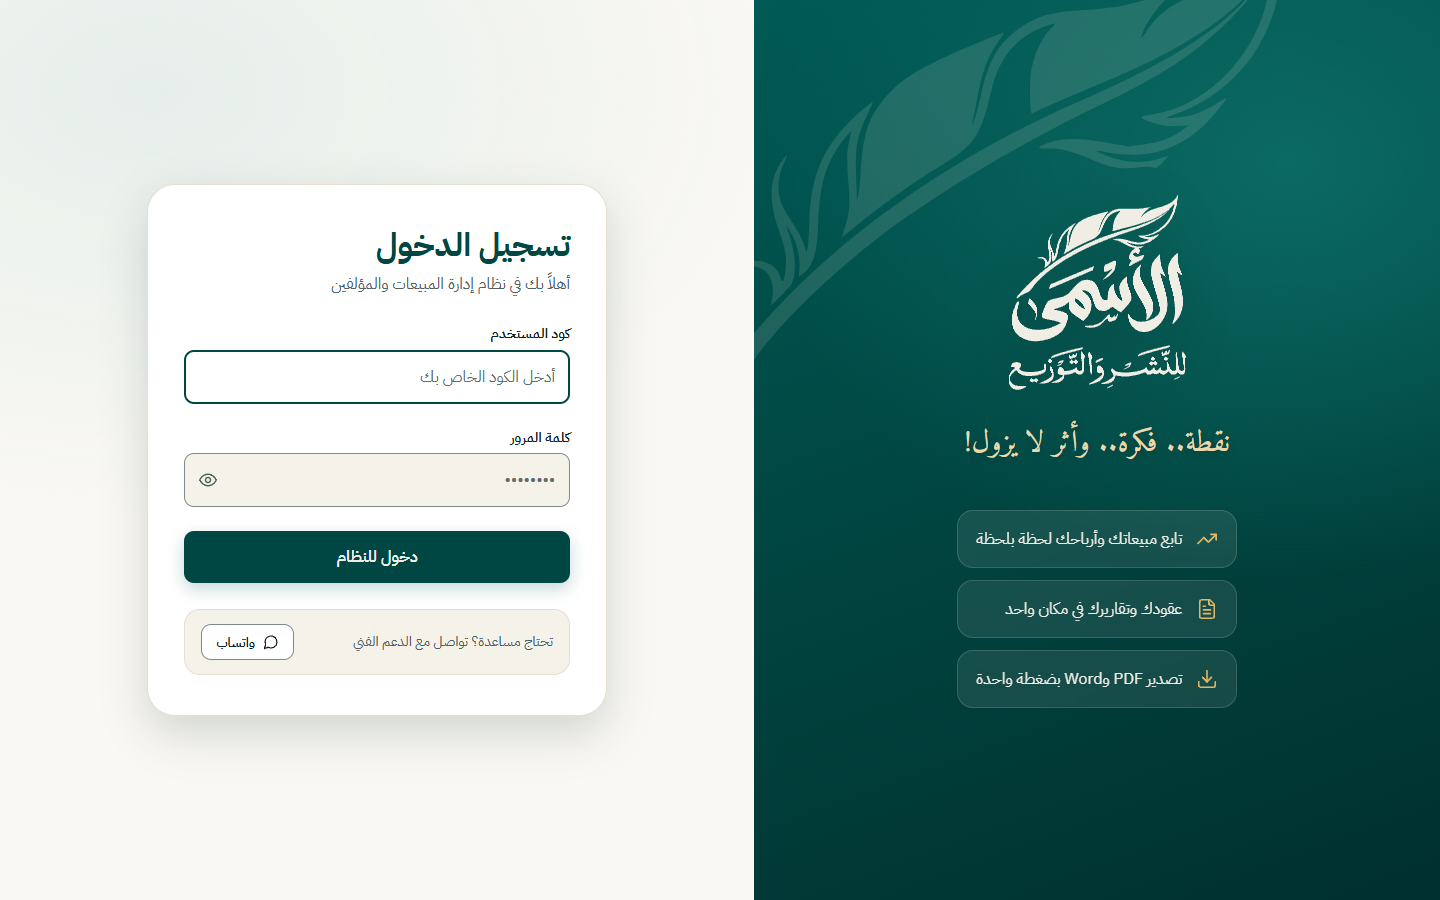
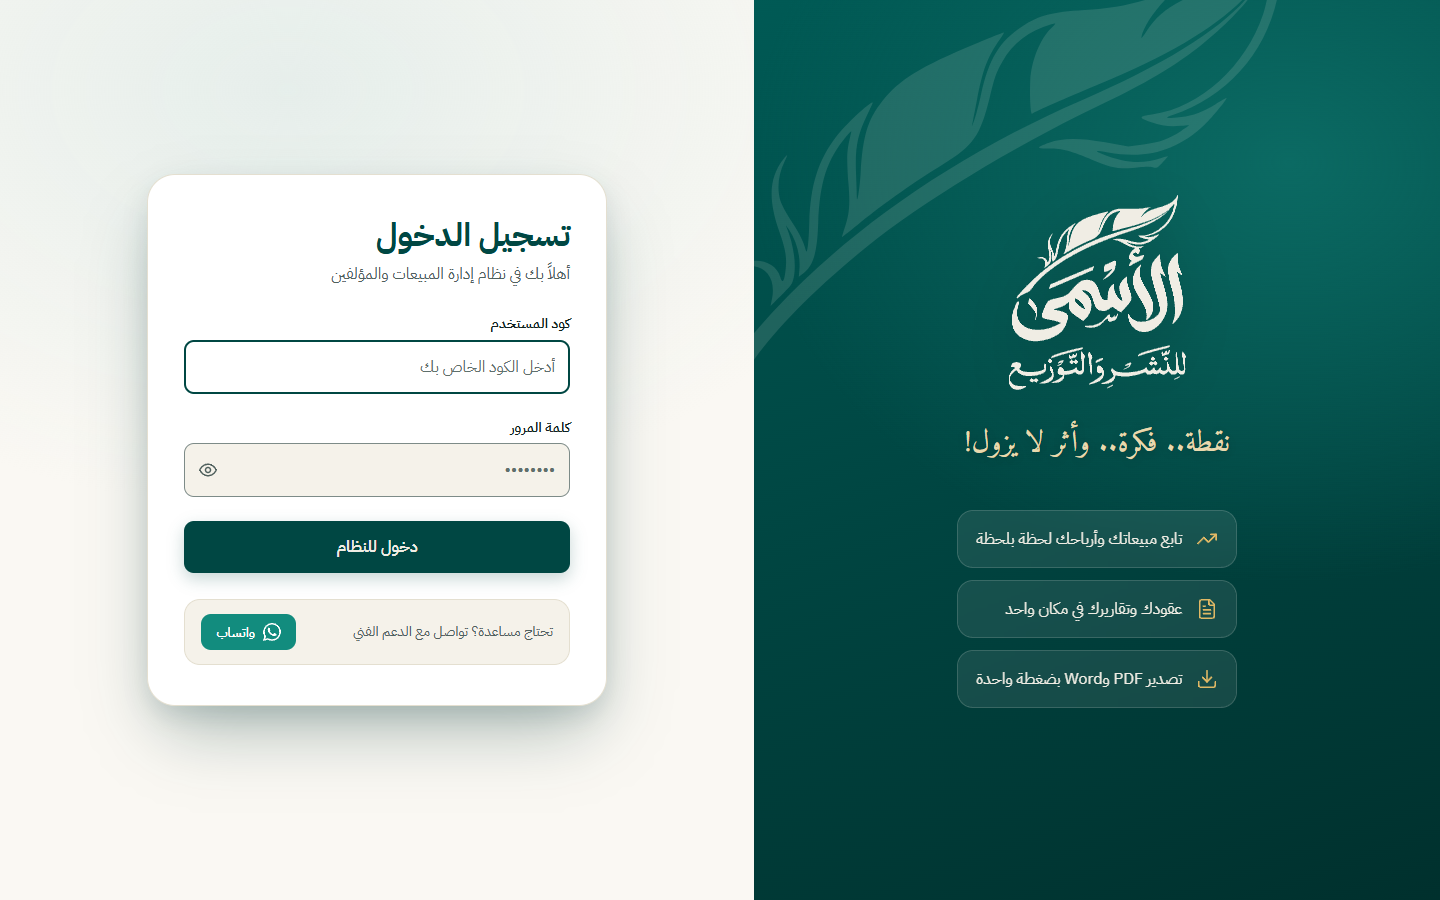
Redesign dashboard charts, add contract shortcuts, green first KPI, login float, WhatsApp button
- Dashboard: smooth gradient trend chart with hover tooltips, latest / average /
  highest stats and a trend badge; thin-ring contracts donut whose legend rows
  link straight to the authors list filtered by contract status.
- Authors: server-side contract-status filter (active / soon / expired) with
  chip links that keep their state across pages; alert strip gets a shortcut.
- Sales: the net-total card is now the green hero card first, like the other pages.
- Login: the card floats above the background (shadow + lift); on phones it
  overlaps the green header again.
- WhatsApp button is green with the real WhatsApp icon.
- Softer feather watermark in KPI cards; refresh README screenshots.

diff --git a/AlAsma.Admin/wwwroot/css/app.css b/AlAsma.Admin/wwwroot/css/app.css
@@ -507,7 +507,7 @@ input:-webkit-autofill, input:-webkit-autofill:hover, input:-webkit-autofill:foc
    ============================================================ */
 
 /* --- Feather watermark behind every KPI card (bottom-left, transparent) --- */
-.kpi { background-image: url("../images/brand/kpi-watermark-light.svg"); background-repeat: no-repeat; background-position: left -26px bottom -30px; background-size: 200px auto; overflow: hidden; }
+.kpi { background-image: url("../images/brand/kpi-watermark-light.svg"); background-repeat: no-repeat; background-position: left -22px bottom -26px; background-size: 176px auto; overflow: hidden; }
 :root[data-theme="dark"] .kpi { background-image: url("../images/brand/kpi-watermark-dark.svg"); }
 .kpi__mark { inset-inline-start: auto; inset-inline-end: -26px; bottom: -34px; width: 210px; opacity: .13; }
 
@@ -551,7 +551,7 @@ input:-webkit-autofill, input:-webkit-autofill:hover, input:-webkit-autofill:foc
   .kpi-grid, .kpi-grid--hero, .kpi-grid--swipe { grid-template-columns: repeat(2, minmax(0, 1fr)); }
   .kpi-grid--hero > .kpi--hero { grid-column: 1 / -1; }
   .kpi-grid--hero > .kpi:nth-child(4):last-child { grid-column: 1 / -1; }
-  .kpi { padding: 16px; gap: 6px; background-size: 150px auto; background-position: left -22px bottom -26px; }
+  .kpi { padding: 16px; gap: 6px; background-size: 128px auto; background-position: left -18px bottom -20px; }
   .kpi__icon { width: 34px; height: 34px; inset-block-start: 14px; inset-inline-end: 14px; border-radius: 10px; }
   .kpi__icon .icon { width: 18px; height: 18px; }
   .kpi__label { font-size: 13px; padding-inline-end: 40px; line-height: 1.5; }
@@ -580,3 +580,89 @@ input:-webkit-autofill, input:-webkit-autofill:hover, input:-webkit-autofill:foc
 :root[data-theme="dark"] .kpi.kpi--hero { background-image: linear-gradient(135deg, #0d5a54 0%, #09433f 55%, #06322f 100%); }
 :root[data-theme="dark"] .kpi.kpi--loss { background-image: linear-gradient(135deg, #8f3a33, #6e2a25); }
 @media (max-width: 639px) { .mcard { gap: 12px; } .mcard__meta { padding: 10px 0; } .kpi.kpi--hero { background-size: auto; background-position: center; } }
+
+/* ============================================================
+   Dashboard charts, shortcuts, WhatsApp button, login float
+   ============================================================ */
+
+/* --- alert strip with shortcut button --- */
+.alert-strip { align-items: center; gap: 14px; flex-wrap: wrap; }
+.alert-strip__icon { width: 44px; height: 44px; border-radius: 12px; display: flex; align-items: center; justify-content: center; background: color-mix(in srgb, var(--accent) 18%, transparent); color: var(--accent-ink); flex: none; }
+.alert-strip__body { flex: 1; min-width: 220px; display: flex; flex-direction: column; gap: 6px; }
+.alert-strip__body b { font-size: 15px; }
+.alert-strip .btn { margin-inline-start: auto; }
+.alert-strip__list { margin-top: 0; }
+
+/* --- trend chart --- */
+.chart { display: flex; flex-direction: column; gap: 18px; }
+.chart__stats { display: flex; align-items: flex-end; flex-wrap: wrap; gap: 14px 28px; }
+.chart__stat { display: flex; flex-direction: column; gap: 2px; }
+.chart__stat-label { font-size: 12px; color: var(--ink-muted); }
+.chart__stat b { font-size: 20px; font-variant-numeric: tabular-nums; }
+.chart__trend { margin-inline-start: auto; display: inline-flex; align-items: center; gap: 6px; padding: 6px 12px; border-radius: 999px; font-size: 13px; font-weight: 600; }
+.chart__trend--up { background: var(--success-soft); color: var(--success-ink); }
+.chart__trend--down { background: var(--danger-soft); color: var(--danger-ink); }
+.chart__trend--down .icon { transform: scaleY(-1); }
+.chart__plot { position: relative; height: 200px; margin-top: 4px; }
+.chart__grid { position: absolute; inset: 0; display: flex; flex-direction: column; justify-content: space-between; pointer-events: none; }
+.chart__grid i { display: block; border-top: 1px dashed var(--line); }
+.chart__svg { position: absolute; inset: 0; width: 100%; height: 100%; overflow: visible; }
+.chart__line { fill: none; stroke: var(--green-500); stroke-width: 2.6; stroke-linecap: round; stroke-linejoin: round; vector-effect: non-scaling-stroke; }
+:root[data-theme="dark"] .chart__line { stroke: #7fd0b4; }
+.chart__dot { position: absolute; width: 14px; height: 14px; margin: -7px 0 0 -7px; padding: 0; border-radius: 50%; border: 3px solid var(--surface); background: var(--green-500); box-shadow: 0 0 0 1px var(--green-500); cursor: pointer; transition: transform .15s ease; }
+.chart__dot--last { width: 18px; height: 18px; margin: -9px 0 0 -9px; background: var(--primary); box-shadow: 0 0 0 1px var(--primary), 0 6px 14px rgba(0,71,67,.35); }
+:root[data-theme="dark"] .chart__dot { background: #7fd0b4; box-shadow: 0 0 0 1px #7fd0b4; }
+:root[data-theme="dark"] .chart__dot--last { background: var(--ink); box-shadow: 0 0 0 1px var(--ink), 0 6px 14px rgba(0,0,0,.5); }
+.chart__dot:hover, .chart__dot:focus-visible { transform: scale(1.3); z-index: 3; }
+.chart__tip { position: absolute; bottom: calc(100% + 12px); left: 50%; transform: translateX(-50%); display: none; flex-direction: column; gap: 2px; min-width: 150px; padding: 10px 12px; border-radius: 12px; background: var(--ink); color: var(--bg); font-size: 12px; line-height: 1.5; text-align: center; box-shadow: var(--shadow-md); pointer-events: none; }
+.chart__tip b { font-size: 13px; }
+.chart__tip .muted { color: inherit; opacity: .75; }
+.chart__dot:hover .chart__tip, .chart__dot:focus-visible .chart__tip { display: flex; }
+.chart__axis { position: relative; height: 18px; margin-top: -6px; }
+.chart__axis span { position: absolute; transform: translateX(-50%); font-size: 12px; color: var(--ink-muted); }
+
+/* --- contracts donut --- */
+.donut2 { display: flex; align-items: center; gap: 28px; flex-wrap: wrap; justify-content: center; }
+.donut2__ring { position: relative; width: 170px; height: 170px; flex: none; }
+.donut2__ring svg { width: 100%; height: 100%; transform: rotate(-90deg); }
+.donut2__track, .donut2__seg { fill: none; stroke-width: 15; }
+.donut2__track { stroke: var(--line); }
+.donut2__seg { stroke-linecap: round; transition: stroke-width .15s ease; }
+.donut2__seg:hover { stroke-width: 18; }
+.donut2__center { position: absolute; inset: 0; display: flex; flex-direction: column; align-items: center; justify-content: center; line-height: 1.1; }
+.donut2__center b { font-size: 34px; }
+.donut2__center span { font-size: 13px; color: var(--ink-muted); margin-top: 2px; }
+.donut2__legend { list-style: none; margin: 0; padding: 0; flex: 1; min-width: 210px; display: flex; flex-direction: column; gap: 8px; }
+.legend-link { display: flex; align-items: center; gap: 10px; min-height: 48px; padding: 0 12px; border-radius: 12px; border: 1px solid var(--line); background: var(--surface); color: var(--ink); font-size: 14px; transition: border-color .15s ease, background .15s ease, transform .15s ease; }
+.legend-link:hover { background: var(--surface-sunken); border-color: var(--line-strong); color: var(--ink); transform: translateX(-2px); }
+.legend-link__dot { width: 12px; height: 12px; border-radius: 4px; flex: none; }
+.legend-link__text { font-weight: 600; }
+.legend-link__count { margin-inline-start: auto; font-weight: 700; font-size: 16px; }
+.legend-link__pct { color: var(--ink-muted); font-size: 12px; min-width: 38px; text-align: end; }
+.legend-link__go { color: var(--ink-subtle); display: flex; }
+
+/* --- WhatsApp button --- */
+.btn--whatsapp { background: #128c7e; color: #fff; border-color: transparent; }
+.btn--whatsapp:hover { background: #0e7468; color: #fff; }
+.sheet__wa { display: flex; color: #25d366; }
+
+/* --- Login: form floats ~10px above the page, the background sits behind it --- */
+.auth__panel { background: transparent; }
+.auth { background: radial-gradient(900px 600px at 20% 10%, color-mix(in srgb, var(--chip-bg) 80%, transparent), transparent 70%), var(--bg); }
+:root[data-theme="dark"] .auth { background: radial-gradient(900px 600px at 20% 10%, rgba(48,105,99,.16), transparent 70%), var(--bg); }
+.auth__card { transform: translateY(-10px); box-shadow: 0 34px 70px -14px rgba(0,50,46,.34), 0 10px 24px rgba(0,50,46,.10); }
+:root[data-theme="dark"] .auth__card { box-shadow: 0 34px 70px -10px rgba(0,0,0,.65), 0 10px 24px rgba(0,0,0,.35); }
+@media (max-width: 859px) {
+  .auth__panel { margin-top: -64px; padding: 0 16px 32px; position: relative; z-index: 2; }
+  .auth__brand { padding-bottom: 104px; }
+  .auth__card { transform: none; box-shadow: 0 28px 60px -12px rgba(0,50,46,.40), 0 8px 20px rgba(0,50,46,.12); }
+  :root[data-theme="dark"] .auth__card { box-shadow: 0 28px 60px -8px rgba(0,0,0,.7), 0 8px 20px rgba(0,0,0,.4); }
+}
+@media (max-width: 639px) {
+  .chart__plot { height: 170px; }
+  .chart__stat b { font-size: 17px; }
+  .chart__trend { margin-inline-start: 0; }
+  .donut2 { gap: 18px; }
+  .donut2__legend { min-width: 100%; }
+  .alert-strip .btn { margin-inline-start: 0; width: 100%; }
+}

diff --git a/AlAsma.Admin/UI/Icon.cs b/AlAsma.Admin/UI/Icon.cs
@@ -55,6 +55,16 @@ namespace AlAsma.Admin.UI
             ["tag"] = "<path d=\"M12.586 2.586A2 2 0 0 0 11.172 2H4a2 2 0 0 0-2 2v7.172a2 2 0 0 0 .586 1.414l8.704 8.704a2.426 2.426 0 0 0 3.42 0l6.58-6.58a2.426 2.426 0 0 0 0-3.42z\"/><circle cx=\"7.5\" cy=\"7.5\" r=\".5\"/>"
         };
 
+
+        /// <summary>Official WhatsApp glyph (filled, not stroked).</summary>
+        public static IHtmlContent Whatsapp(int size = 20, string? cssClass = null)
+        {
+            var cls = string.IsNullOrWhiteSpace(cssClass) ? "icon" : "icon " + cssClass;
+            return new HtmlString(
+                $"<svg class=\"{cls}\" width=\"{size}\" height=\"{size}\" viewBox=\"0 0 24 24\" fill=\"currentColor\" aria-hidden=\"true\">" +
+                "<path d=\"M17.472 14.382c-.297-.149-1.758-.867-2.03-.967-.273-.099-.471-.148-.67.15-.197.297-.767.966-.94 1.164-.173.199-.347.223-.644.075-.297-.15-1.255-.463-2.39-1.475-.883-.788-1.48-1.761-1.653-2.059-.173-.297-.018-.458.13-.606.134-.133.298-.347.446-.52.149-.174.198-.298.298-.497.099-.198.05-.371-.025-.52-.075-.149-.669-1.612-.916-2.207-.242-.579-.487-.5-.669-.51-.173-.008-.371-.01-.57-.01-.198 0-.52.074-.792.372-.272.297-1.04 1.016-1.04 2.479 0 1.462 1.065 2.875 1.213 3.074.149.198 2.096 3.2 5.077 4.487.709.306 1.262.489 1.694.625.712.227 1.36.195 1.871.118.571-.085 1.758-.719 2.006-1.413.248-.694.248-1.289.173-1.413-.074-.124-.272-.198-.57-.347m-5.421 7.403h-.004a9.87 9.87 0 01-5.031-1.378l-.361-.214-3.741.982.998-3.648-.235-.374a9.86 9.86 0 01-1.51-5.26c.001-5.45 4.436-9.884 9.888-9.884 2.64 0 5.122 1.03 6.988 2.898a9.825 9.825 0 012.893 6.994c-.003 5.45-4.437 9.884-9.885 9.884m8.413-18.297A11.815 11.815 0 0012.05 0C5.495 0 .16 5.335.157 11.892c0 2.096.547 4.142 1.588 5.945L.057 24l6.305-1.654a11.882 11.882 0 005.683 1.448h.005c6.554 0 11.89-5.335 11.893-11.893a11.821 11.821 0 00-3.48-8.413Z\"/></svg>");
+        }
+
         public static IHtmlContent Svg(string name, int size = 22, string? cssClass = null)
         {
             var body = Paths.TryGetValue(name, out var path) ? path : string.Empty;

diff --git a/AlAsma.Admin/Services/AuthorService.cs b/AlAsma.Admin/Services/AuthorService.cs
@@ -54,10 +54,22 @@ namespace AlAsma.Admin.Services
             }).ToList();
         }
 
-        public async Task<(IEnumerable<AuthorListDto> Authors, int TotalCount)> GetAllAuthorsPaginatedAsync(int page, int pageSize = 10)
+        public async Task<(IEnumerable<AuthorListDto> Authors, int TotalCount)> GetAllAuthorsPaginatedAsync(int page, int pageSize = 10, string? status = null)
         {
             var baseQuery = _unitOfWork.Authors.Query()
                 .Where(a => a.Role != "SuperAdmin" && a.Role != "Admin");
+
+            // Optional contract-status filter (same thresholds as ComputeContractStatus: 20 days = "soon")
+            var now = DateTime.UtcNow;
+            var soonLimit = now.AddDays(20);
+            baseQuery = status switch
+            {
+                "active" => baseQuery.Where(a => a.ContractEnd != null && a.ContractEnd > soonLimit),
+                "soon" => baseQuery.Where(a => a.ContractEnd != null && a.ContractEnd > now && a.ContractEnd <= soonLimit),
+                "expired" => baseQuery.Where(a => a.ContractEnd != null && a.ContractEnd <= now),
+                "undefined" => baseQuery.Where(a => a.ContractEnd == null),
+                _ => baseQuery
+            };
 
             var totalCount = await baseQuery.CountAsync();
 

diff --git a/AlAsma.Admin/Areas/Admin/Controllers/AuthorController.cs b/AlAsma.Admin/Areas/Admin/Controllers/AuthorController.cs
@@ -17,11 +17,13 @@ namespace AlAsma.Admin.Areas.Admin.Controllers
             _authorService = authorService;
         }
 
-        public async Task<IActionResult> Index(int page = 1)
+        public async Task<IActionResult> Index(int page = 1, string? status = null)
         {
             page = Math.Max(1, page);
             const int pageSize = 10;
-            var (authors, totalCount) = await _authorService.GetAllAuthorsPaginatedAsync(page, pageSize);
+            status = status is "active" or "soon" or "expired" or "undefined" ? status : null;
+            var (authors, totalCount) = await _authorService.GetAllAuthorsPaginatedAsync(page, pageSize, status);
+            ViewBag.Status = status;
             ViewBag.CurrentPage = page;
             ViewBag.TotalPages = (int)Math.Ceiling((double)totalCount / pageSize);
             ViewBag.TotalCount = totalCount;

diff --git a/AlAsma.Admin/Interfaces/IAuthorService.cs b/AlAsma.Admin/Interfaces/IAuthorService.cs
@@ -7,7 +7,7 @@ namespace AlAsma.Admin.Interfaces
     public interface IAuthorService
     {
         Task<IEnumerable<AuthorListDto>> GetAllAuthorsAsync();
-        Task<(IEnumerable<AuthorListDto> Authors, int TotalCount)> GetAllAuthorsPaginatedAsync(int page, int pageSize = 10);
+        Task<(IEnumerable<AuthorListDto> Authors, int TotalCount)> GetAllAuthorsPaginatedAsync(int page, int pageSize = 10, string? status = null);
         Task<AuthorListDto?> GetAuthorByIdAsync(int id);
         Task<bool> CreateAuthorAsync(AuthorCreateDto dto);
         Task<bool> UpdateAuthorAsync(AuthorEditDto dto);
